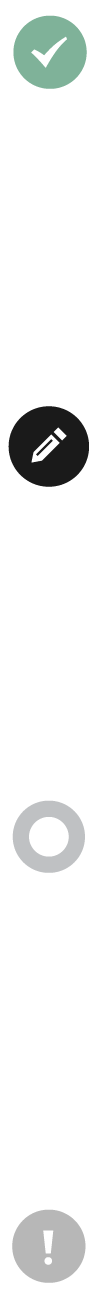
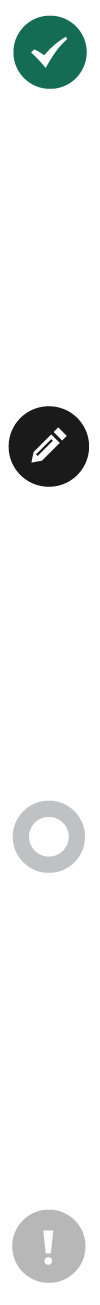
• Adds imagemin to grunt • Adds newer to grunt • Updatesapp navigation colour

Changed region(s): [[0.12, 0.0, 0.87, 0.092]]

diff --git a/assets/_styles/selfserve.scss b/assets/_styles/selfserve.scss
@@ -34,7 +34,7 @@ $assetPath : "../images/";
 '_fonts',
 '_base-styles';
 
-$primaryColour: $department-for-transport;;
+$primaryColour: $department-for-transport;
 
 /* 1.1 Links
    ========================================================================== */

diff --git a/assets/_styles/_layout.scss b/assets/_styles/_layout.scss
@@ -109,4 +109,5 @@ hr {
     height: 0.25em;
     display: block;
     border: 0;
+    clear: both;
 }
